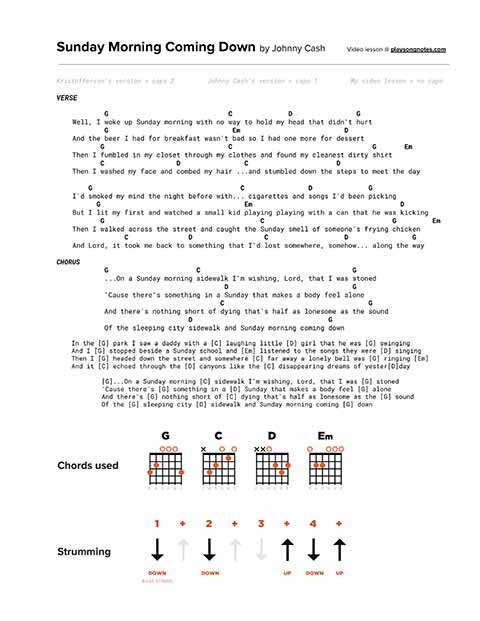
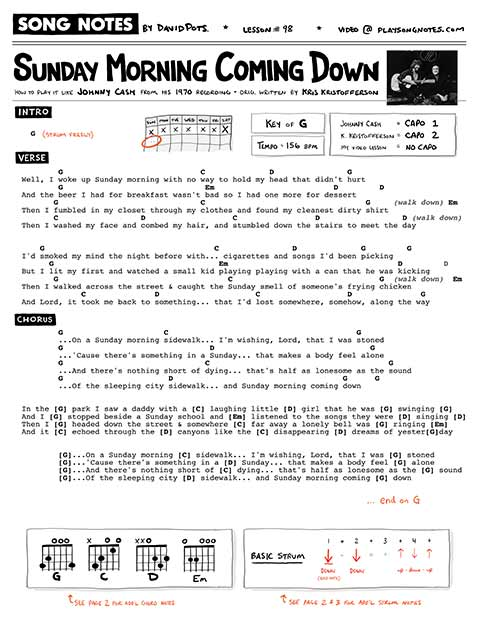
Adds 98 updated pdf graphic

Changed region(s): [[0.0, 0.0, 0.9688, 0.9791], [0.9375, 0.8567, 0.9688, 0.8873]]

diff --git a/_includes/latest-uploads.html b/_includes/latest-uploads.html
@@ -4,6 +4,16 @@
   <!-- <li><a class="underline" href="________"><strong>___________</strong></a> by __________<br /><em>________</em></li> -->
 
   <li class="homepage-latest-gallery">
+    <a style="" href="/lessons/98">
+      <div style="background-image: url(/images/pdfs/preview/98.jpg);" class="pdf-thumbnail"></div>
+      <h3>Sunday Morning Coming Down</h3>
+      <h4>by Johnny Cash / K. Kristofferson</h4>
+      <h5>Dec 28, 2020 • Lesson #98</h5>
+      <h6>Watch Video & Get PDF »</h6>
+    </a>
+  </li>
+
+  <li class="homepage-latest-gallery">
     <a style="" href="/lessons/343">
       <div style="background-image: url(/images/pdfs/preview/343.jpg);" class="pdf-thumbnail"></div>
       <h3>O Holy Night</h3>

diff --git a/_lessons/98 [Johnny Cash] Sunday Morning Coming Down.md b/_lessons/98 [Johnny Cash] Sunday Morning Coming Down.md
@@ -31,6 +31,7 @@ Video timestamps:
 
 - 2:36 Chords needed
 - 3:55 Strumming pattern (easy)
+- 5:32 Playthrough (with easy strum)
 - 7:18 Walk-down transition riffs
 - 11:40 Strumming pattern (advanced)
 
